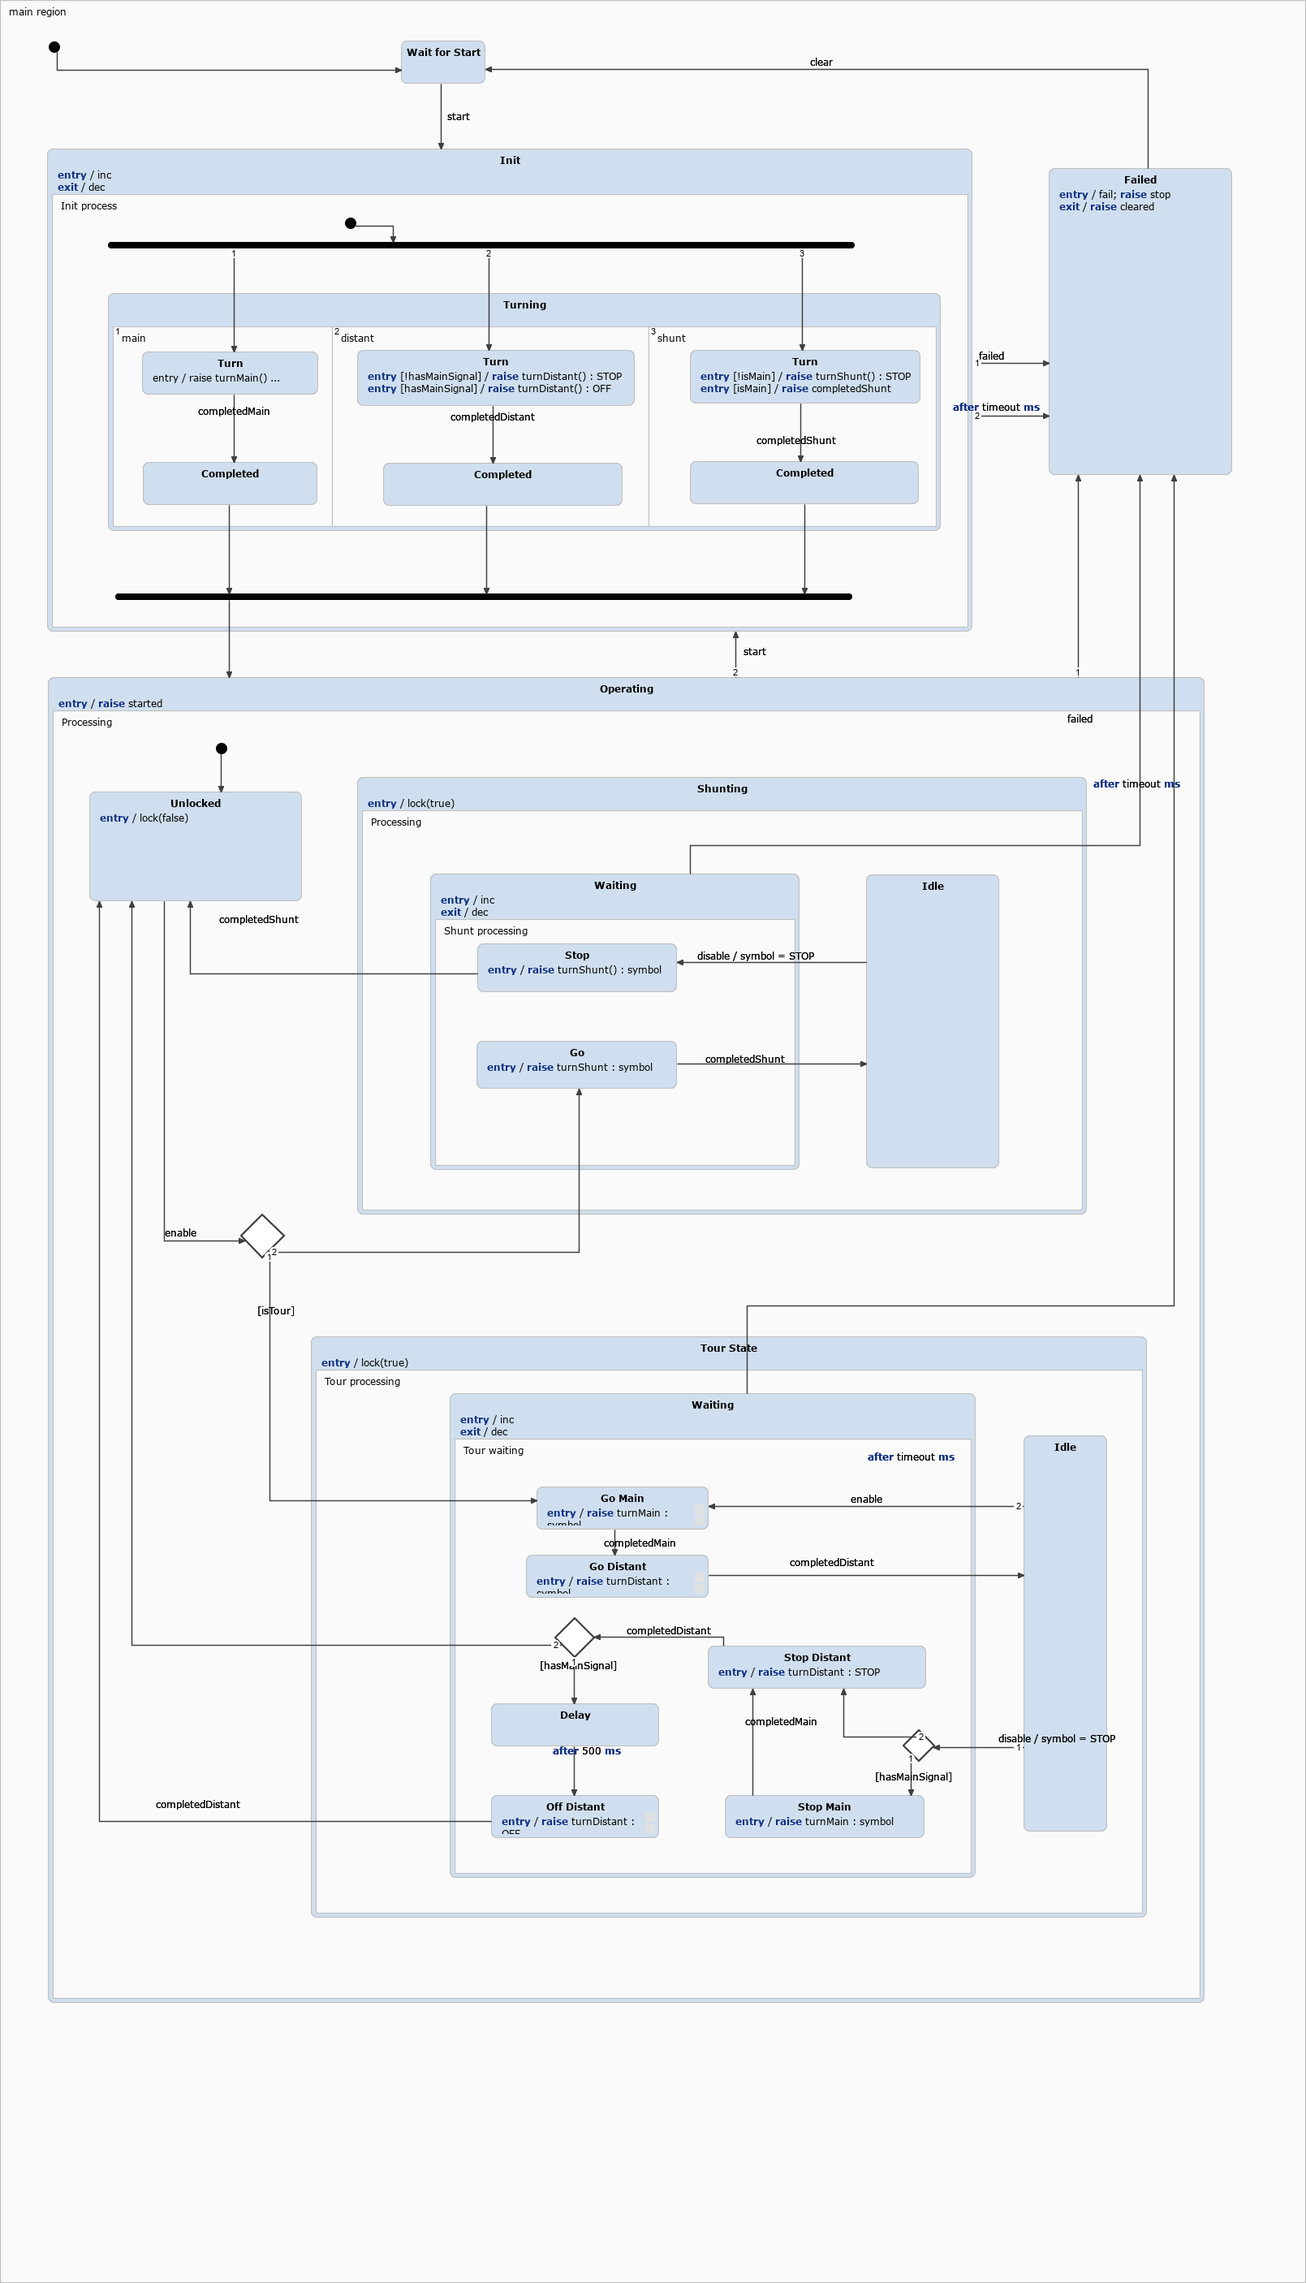
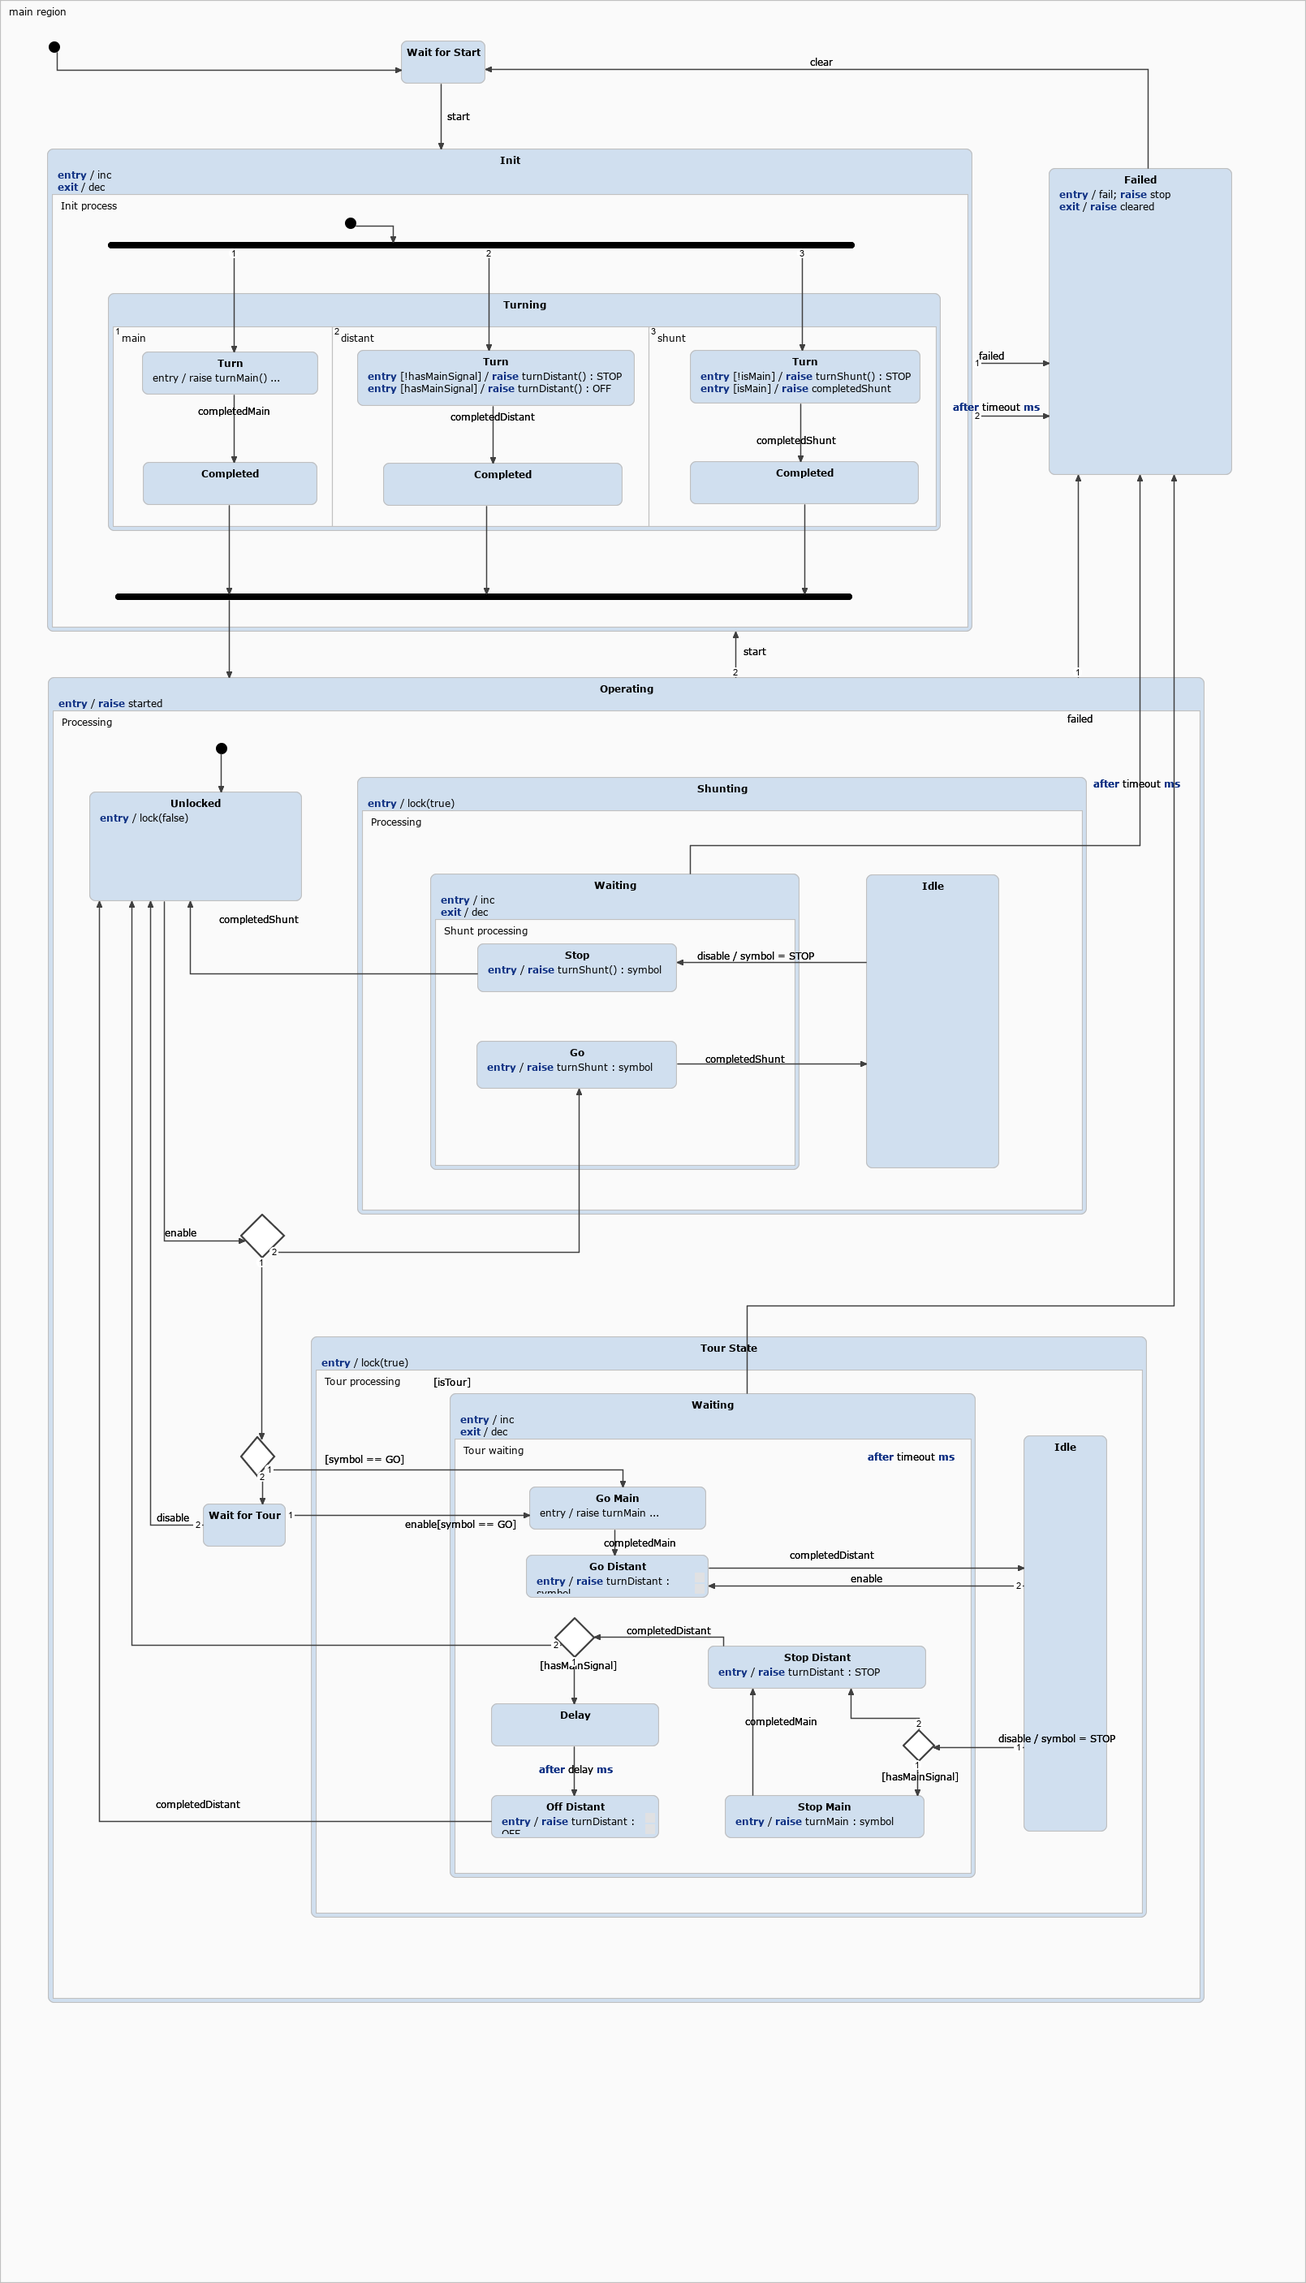
Refined  route extensions.

diff --git a/statecharts/SignalControllerStatechart.cpp b/statecharts/SignalControllerStatechart.cpp
@@ -26,6 +26,7 @@ namespace mrw
 		SignalControllerStatechart::SignalControllerStatechart(QObject * parent) :
 			QObject(parent),
 			timeout(5000),
+			delay(750),
 			symbol(SignalControllerStatechart::STOP),
 			timerService(nullptr),
 			ifaceOperationCallback(nullptr),
@@ -313,7 +314,7 @@ namespace mrw
 				}
 			case mrw::statechart::SignalControllerStatechart::State::main_region_Operating :
 				{
-					return  (stateConfVector[scvi_main_region_Operating] >= mrw::statechart::SignalControllerStatechart::State::main_region_Operating && stateConfVector[scvi_main_region_Operating] <= mrw::statechart::SignalControllerStatechart::State::main_region_Operating_Processing_Tour_State_Tour_processing_Idle);
+					return  (stateConfVector[scvi_main_region_Operating] >= mrw::statechart::SignalControllerStatechart::State::main_region_Operating && stateConfVector[scvi_main_region_Operating] <= mrw::statechart::SignalControllerStatechart::State::main_region_Operating_Processing_Wait_for_Tour);
 					break;
 				}
 			case mrw::statechart::SignalControllerStatechart::State::main_region_Operating_Processing_Unlocked :
@@ -391,6 +392,11 @@ namespace mrw
 					return  (stateConfVector[scvi_main_region_Operating_Processing_Tour_State_Tour_processing_Idle] == mrw::statechart::SignalControllerStatechart::State::main_region_Operating_Processing_Tour_State_Tour_processing_Idle);
 					break;
 				}
+			case mrw::statechart::SignalControllerStatechart::State::main_region_Operating_Processing_Wait_for_Tour :
+				{
+					return  (stateConfVector[scvi_main_region_Operating_Processing_Wait_for_Tour] == mrw::statechart::SignalControllerStatechart::State::main_region_Operating_Processing_Wait_for_Tour);
+					break;
+				}
 			case mrw::statechart::SignalControllerStatechart::State::main_region_Failed :
 				{
 					return  (stateConfVector[scvi_main_region_Failed] == mrw::statechart::SignalControllerStatechart::State::main_region_Failed);
@@ -413,6 +419,16 @@ namespace mrw
 		void SignalControllerStatechart::setTimeout(sc::integer timeout_)
 		{
 			this->timeout = timeout_;
+		}
+
+		sc::integer SignalControllerStatechart::getDelay() const
+		{
+			return delay;
+		}
+
+		void SignalControllerStatechart::setDelay(sc::integer delay_)
+		{
+			this->delay = delay_;
 		}
 
 		sc::integer SignalControllerStatechart::getSymbol() const
@@ -602,7 +618,7 @@ namespace mrw
 		void SignalControllerStatechart::enact_main_region_Operating_Processing_Tour_State_Tour_processing_Waiting_Tour_waiting_Delay()
 		{
 			/* Entry action for state 'Delay'. */
-			timerService->setTimer(this, 3, 500, false);
+			timerService->setTimer(this, 3, delay, false);
 		}
 
 		/* Entry action for state 'Failed'. */
@@ -841,6 +857,15 @@ namespace mrw
 			stateConfVectorChanged = true;
 		}
 
+		/* 'default' enter sequence for state Wait for Tour */
+		void SignalControllerStatechart::enseq_main_region_Operating_Processing_Wait_for_Tour_default()
+		{
+			/* 'default' enter sequence for state Wait for Tour */
+			stateConfVector[0] = mrw::statechart::SignalControllerStatechart::State::main_region_Operating_Processing_Wait_for_Tour;
+			stateConfVectorPosition = 0;
+			stateConfVectorChanged = true;
+		}
+
 		/* 'default' enter sequence for state Failed */
 		void SignalControllerStatechart::enseq_main_region_Failed_default()
 		{
@@ -1071,6 +1096,14 @@ namespace mrw
 			stateConfVectorPosition = 0;
 		}
 
+		/* Default exit sequence for state Wait for Tour */
+		void SignalControllerStatechart::exseq_main_region_Operating_Processing_Wait_for_Tour()
+		{
+			/* Default exit sequence for state Wait for Tour */
+			stateConfVector[0] = mrw::statechart::SignalControllerStatechart::State::NO_STATE;
+			stateConfVectorPosition = 0;
+		}
+
 		/* Default exit sequence for state Failed */
 		void SignalControllerStatechart::exseq_main_region_Failed()
 		{
@@ -1163,6 +1196,11 @@ namespace mrw
 			case mrw::statechart::SignalControllerStatechart::State::main_region_Operating_Processing_Tour_State_Tour_processing_Idle :
 				{
 					exseq_main_region_Operating_Processing_Tour_State_Tour_processing_Idle();
+					break;
+				}
+			case mrw::statechart::SignalControllerStatechart::State::main_region_Operating_Processing_Wait_for_Tour :
+				{
+					exseq_main_region_Operating_Processing_Wait_for_Tour();
 					break;
 				}
 			case mrw::statechart::SignalControllerStatechart::State::main_region_Failed :
@@ -1408,6 +1446,11 @@ namespace mrw
 					exseq_main_region_Operating_Processing_Tour_State_Tour_processing_Idle();
 					break;
 				}
+			case mrw::statechart::SignalControllerStatechart::State::main_region_Operating_Processing_Wait_for_Tour :
+				{
+					exseq_main_region_Operating_Processing_Wait_for_Tour();
+					break;
+				}
 			default:
 				/* do nothing */
 				break;
@@ -1600,15 +1643,29 @@ namespace mrw
 			/* The reactions of state null. */
 			if (ifaceOperationCallback->isTour())
 			{
-				enact_main_region_Operating_Processing_Tour_State();
-				enact_main_region_Operating_Processing_Tour_State_Tour_processing_Waiting();
-				enseq_main_region_Operating_Processing_Tour_State_Tour_processing_Waiting_Tour_waiting_Go_Main_default();
+				react_main_region_Operating_Processing__choice_1();
 			}
 			else
 			{
 				enact_main_region_Operating_Processing_Shunting();
 				enact_main_region_Operating_Processing_Shunting_Processing_Waiting();
 				enseq_main_region_Operating_Processing_Shunting_Processing_Waiting_Shunt_processing_Go_default();
+			}
+		}
+
+		/* The reactions of state null. */
+		void SignalControllerStatechart::react_main_region_Operating_Processing__choice_1()
+		{
+			/* The reactions of state null. */
+			if ((symbol) == (SignalControllerStatechart::GO))
+			{
+				enact_main_region_Operating_Processing_Tour_State();
+				enact_main_region_Operating_Processing_Tour_State_Tour_processing_Waiting();
+				enseq_main_region_Operating_Processing_Tour_State_Tour_processing_Waiting_Tour_waiting_Go_Main_default();
+			}
+			else
+			{
+				enseq_main_region_Operating_Processing_Wait_for_Tour_default();
 			}
 		}
 
@@ -2184,7 +2241,7 @@ namespace mrw
 					{
 						exseq_main_region_Operating_Processing_Tour_State_Tour_processing_Idle();
 						enact_main_region_Operating_Processing_Tour_State_Tour_processing_Waiting();
-						enseq_main_region_Operating_Processing_Tour_State_Tour_processing_Waiting_Tour_waiting_Go_Main_default();
+						enseq_main_region_Operating_Processing_Tour_State_Tour_processing_Waiting_Tour_waiting_Go_Distant_default();
 						main_region_Operating_Processing_Tour_State_react(0);
 						transitioned_after = 0;
 					}
@@ -2194,6 +2251,40 @@ namespace mrw
 			if ((transitioned_after) == (transitioned_before))
 			{
 				transitioned_after = main_region_Operating_Processing_Tour_State_react(transitioned_before);
+			}
+			return transitioned_after;
+		}
+
+		sc::integer SignalControllerStatechart::main_region_Operating_Processing_Wait_for_Tour_react(const sc::integer transitioned_before)
+		{
+			/* The reactions of state Wait for Tour. */
+			sc::integer transitioned_after = transitioned_before;
+			if ((transitioned_after) < (0))
+			{
+				if (((enable_raised)) && (((symbol) == (SignalControllerStatechart::GO))))
+				{
+					exseq_main_region_Operating_Processing_Wait_for_Tour();
+					enact_main_region_Operating_Processing_Tour_State();
+					enact_main_region_Operating_Processing_Tour_State_Tour_processing_Waiting();
+					enseq_main_region_Operating_Processing_Tour_State_Tour_processing_Waiting_Tour_waiting_Go_Main_default();
+					main_region_Operating_react(0);
+					transitioned_after = 0;
+				}
+				else
+				{
+					if (disable_raised)
+					{
+						exseq_main_region_Operating_Processing_Wait_for_Tour();
+						enseq_main_region_Operating_Processing_Unlocked_default();
+						main_region_Operating_react(0);
+						transitioned_after = 0;
+					}
+				}
+			}
+			/* If no transition was taken then execute local reactions */
+			if ((transitioned_after) == (transitioned_before))
+			{
+				transitioned_after = main_region_Operating_react(transitioned_before);
 			}
 			return transitioned_after;
 		}
@@ -2311,6 +2402,11 @@ namespace mrw
 			case mrw::statechart::SignalControllerStatechart::State::main_region_Operating_Processing_Tour_State_Tour_processing_Idle :
 				{
 					transitioned = main_region_Operating_Processing_Tour_State_Tour_processing_Idle_react(transitioned);
+					break;
+				}
+			case mrw::statechart::SignalControllerStatechart::State::main_region_Operating_Processing_Wait_for_Tour :
+				{
+					transitioned = main_region_Operating_Processing_Wait_for_Tour_react(transitioned);
 					break;
 				}
 			case mrw::statechart::SignalControllerStatechart::State::main_region_Failed :

diff --git a/statecharts/SignalControllerStatechart.h b/statecharts/SignalControllerStatechart.h
@@ -75,11 +75,12 @@ namespace mrw
 				main_region_Operating_Processing_Tour_State_Tour_processing_Waiting_Tour_waiting_Off_Distant,
 				main_region_Operating_Processing_Tour_State_Tour_processing_Waiting_Tour_waiting_Delay,
 				main_region_Operating_Processing_Tour_State_Tour_processing_Idle,
+				main_region_Operating_Processing_Wait_for_Tour,
 				main_region_Failed
 			};
 
 			/*! The number of states. */
-			static const sc::integer numStates = 26;
+			static const sc::integer numStates = 27;
 			static const sc::integer scvi_main_region_Wait_for_Start = 0;
 			static const sc::integer scvi_main_region_Init = 0;
 			static const sc::integer scvi_main_region_Init_Init_process_Turning = 0;
@@ -105,6 +106,7 @@ namespace mrw
 			static const sc::integer scvi_main_region_Operating_Processing_Tour_State_Tour_processing_Waiting_Tour_waiting_Off_Distant = 0;
 			static const sc::integer scvi_main_region_Operating_Processing_Tour_State_Tour_processing_Waiting_Tour_waiting_Delay = 0;
 			static const sc::integer scvi_main_region_Operating_Processing_Tour_State_Tour_processing_Idle = 0;
+			static const sc::integer scvi_main_region_Operating_Processing_Wait_for_Tour = 0;
 			static const sc::integer scvi_main_region_Failed = 0;
 
 			/*! Enumeration of all events which are consumed. */
@@ -142,6 +144,12 @@ namespace mrw
 
 			/*! Sets the value of the variable 'timeout' that is defined in the default interface scope. */
 			void setTimeout(sc::integer timeout);
+
+			/*! Gets the value of the variable 'delay' that is defined in the default interface scope. */
+			sc::integer getDelay() const;
+
+			/*! Sets the value of the variable 'delay' that is defined in the default interface scope. */
+			void setDelay(sc::integer delay);
 
 			/*! Gets the value of the variable 'symbol' that is defined in the default interface scope. */
 			sc::integer getSymbol() const;
@@ -299,6 +307,7 @@ namespace mrw
 			SignalControllerStatechart & operator=(const SignalControllerStatechart &);
 
 			sc::integer timeout;
+			sc::integer delay;
 			sc::integer symbol;
 			static const sc::integer OFF;
 			static const sc::integer STOP;
@@ -370,6 +379,7 @@ namespace mrw
 			void enseq_main_region_Operating_Processing_Tour_State_Tour_processing_Waiting_Tour_waiting_Off_Distant_default();
 			void enseq_main_region_Operating_Processing_Tour_State_Tour_processing_Waiting_Tour_waiting_Delay_default();
 			void enseq_main_region_Operating_Processing_Tour_State_Tour_processing_Idle_default();
+			void enseq_main_region_Operating_Processing_Wait_for_Tour_default();
 			void enseq_main_region_Failed_default();
 			void enseq_main_region_default();
 			void enseq_main_region_Init_Init_process_default();
@@ -399,6 +409,7 @@ namespace mrw
 			void exseq_main_region_Operating_Processing_Tour_State_Tour_processing_Waiting_Tour_waiting_Off_Distant();
 			void exseq_main_region_Operating_Processing_Tour_State_Tour_processing_Waiting_Tour_waiting_Delay();
 			void exseq_main_region_Operating_Processing_Tour_State_Tour_processing_Idle();
+			void exseq_main_region_Operating_Processing_Wait_for_Tour();
 			void exseq_main_region_Failed();
 			void exseq_main_region();
 			void exseq_main_region_Init_Init_process();
@@ -413,6 +424,7 @@ namespace mrw
 			void react_main_region_Operating_Processing_Tour_State_Tour_processing_Waiting_Tour_waiting__choice_0();
 			void react_main_region_Operating_Processing_Tour_State_Tour_processing_Waiting_Tour_waiting__choice_1();
 			void react_main_region_Operating_Processing__choice_0();
+			void react_main_region_Operating_Processing__choice_1();
 			void react_main_region__entry_Default();
 			void react_main_region_Init_Init_process__entry_Default();
 			void react_main_region_Operating_Processing__entry_Default();
@@ -444,6 +456,7 @@ namespace mrw
 			sc::integer main_region_Operating_Processing_Tour_State_Tour_processing_Waiting_Tour_waiting_Off_Distant_react(const sc::integer transitioned_before);
 			sc::integer main_region_Operating_Processing_Tour_State_Tour_processing_Waiting_Tour_waiting_Delay_react(const sc::integer transitioned_before);
 			sc::integer main_region_Operating_Processing_Tour_State_Tour_processing_Idle_react(const sc::integer transitioned_before);
+			sc::integer main_region_Operating_Processing_Wait_for_Tour_react(const sc::integer transitioned_before);
 			sc::integer main_region_Failed_react(const sc::integer transitioned_before);
 			void clearInEvents();
 			void microStep();

diff --git a/track-control-ng/ctrl/signalcontrollerproxy.cpp b/track-control-ng/ctrl/signalcontrollerproxy.cpp
@@ -294,11 +294,6 @@ bool SignalControllerProxy::hasShunting() const
 	return shunt_signal != nullptr;
 }
 
-Signal::Symbol SignalControllerProxy::main() const
-{
-	return static_cast<Signal::Symbol>(statechart_main.getSignalState());
-}
-
 RailPart * SignalControllerProxy::railPart() const
 {
 	return signal_rail;
@@ -309,9 +304,18 @@ Section * SignalControllerProxy::section() const
 	return signal_section;
 }
 
+Signal::Symbol SignalControllerProxy::main() const
+{
+	return static_cast<Signal::Symbol>(statechart_main.getSignalState());
+}
+
 Signal::Symbol SignalControllerProxy::distant() const
 {
-	return static_cast<Signal::Symbol>(statechart_distant.getSignalState());
+	SignalControllerProxy * main_controller = statechart_distant.mainController();
+
+	return main_controller != nullptr ?
+		main_controller->main() :
+		static_cast<Signal::Symbol>(statechart_distant.getSignalState());
 }
 
 Signal::Symbol SignalControllerProxy::shunt() const

diff --git a/track-control-ng/ctrl/signalproxy.cpp b/track-control-ng/ctrl/signalproxy.cpp
@@ -53,7 +53,7 @@ bool SignalProxy::hasSignal()
 	return signal != nullptr;
 }
 
-void mrw::ctrl::SignalProxy::send()
+void SignalProxy::send()
 {
 	__METHOD__;
 
@@ -65,7 +65,7 @@ void mrw::ctrl::SignalProxy::send()
 	ControllerRegistry::can()->write(message);
 }
 
-void mrw::ctrl::SignalProxy::prepare(sc::integer symbol)
+void SignalProxy::prepare(sc::integer symbol)
 {
 	prepare(static_cast<Signal::Symbol>(symbol));
 }
@@ -192,6 +192,11 @@ void DistantProxy::prepare(Signal::Symbol symbol)
 		state = SIGNAL_OFF;
 	}
 	signal->setState(state);
+}
+
+SignalControllerProxy * DistantProxy::mainController() const
+{
+	return main_controller;
 }
 
 void DistantProxy::setMainController(SignalControllerProxy * proxy)

diff --git a/track-control-ng/widgetroute.cpp b/track-control-ng/widgetroute.cpp
@@ -555,8 +555,10 @@ void WidgetRoute::turnSignals()
 	size_t                               count = 0;
 
 	collectSignalController(controllers);
-	for (SignalControllerProxy * controller : controllers)
+	for (auto it = controllers.rbegin(); it != controllers.rend(); ++it)
 	{
+		SignalControllerProxy * controller = *it;
+
 //		if (controller->isUnlocked())
 		{
 			qDebug().noquote() << *controller;

diff --git a/track-control-ng/ctrl/signalproxy.h b/track-control-ng/ctrl/signalproxy.h
@@ -75,6 +75,7 @@ namespace mrw::ctrl
 		void start(
 			mrw::model::Signal * input,
 			mrw::model::Signal * combined);
+		SignalControllerProxy * mainController() const;
 		void setMainController(SignalControllerProxy * signal);
 
 		void prepare(mrw::model::Signal::Symbol symbol) override;

diff --git a/model/signal.cpp b/model/signal.cpp
@@ -73,6 +73,7 @@ void Signal::setState(const SignalState new_state)
 {
 	// TODO: Respect locking!
 	signal_state = new_state;
+	qDebug().noquote() << toString();
 }
 
 void Signal::link()
